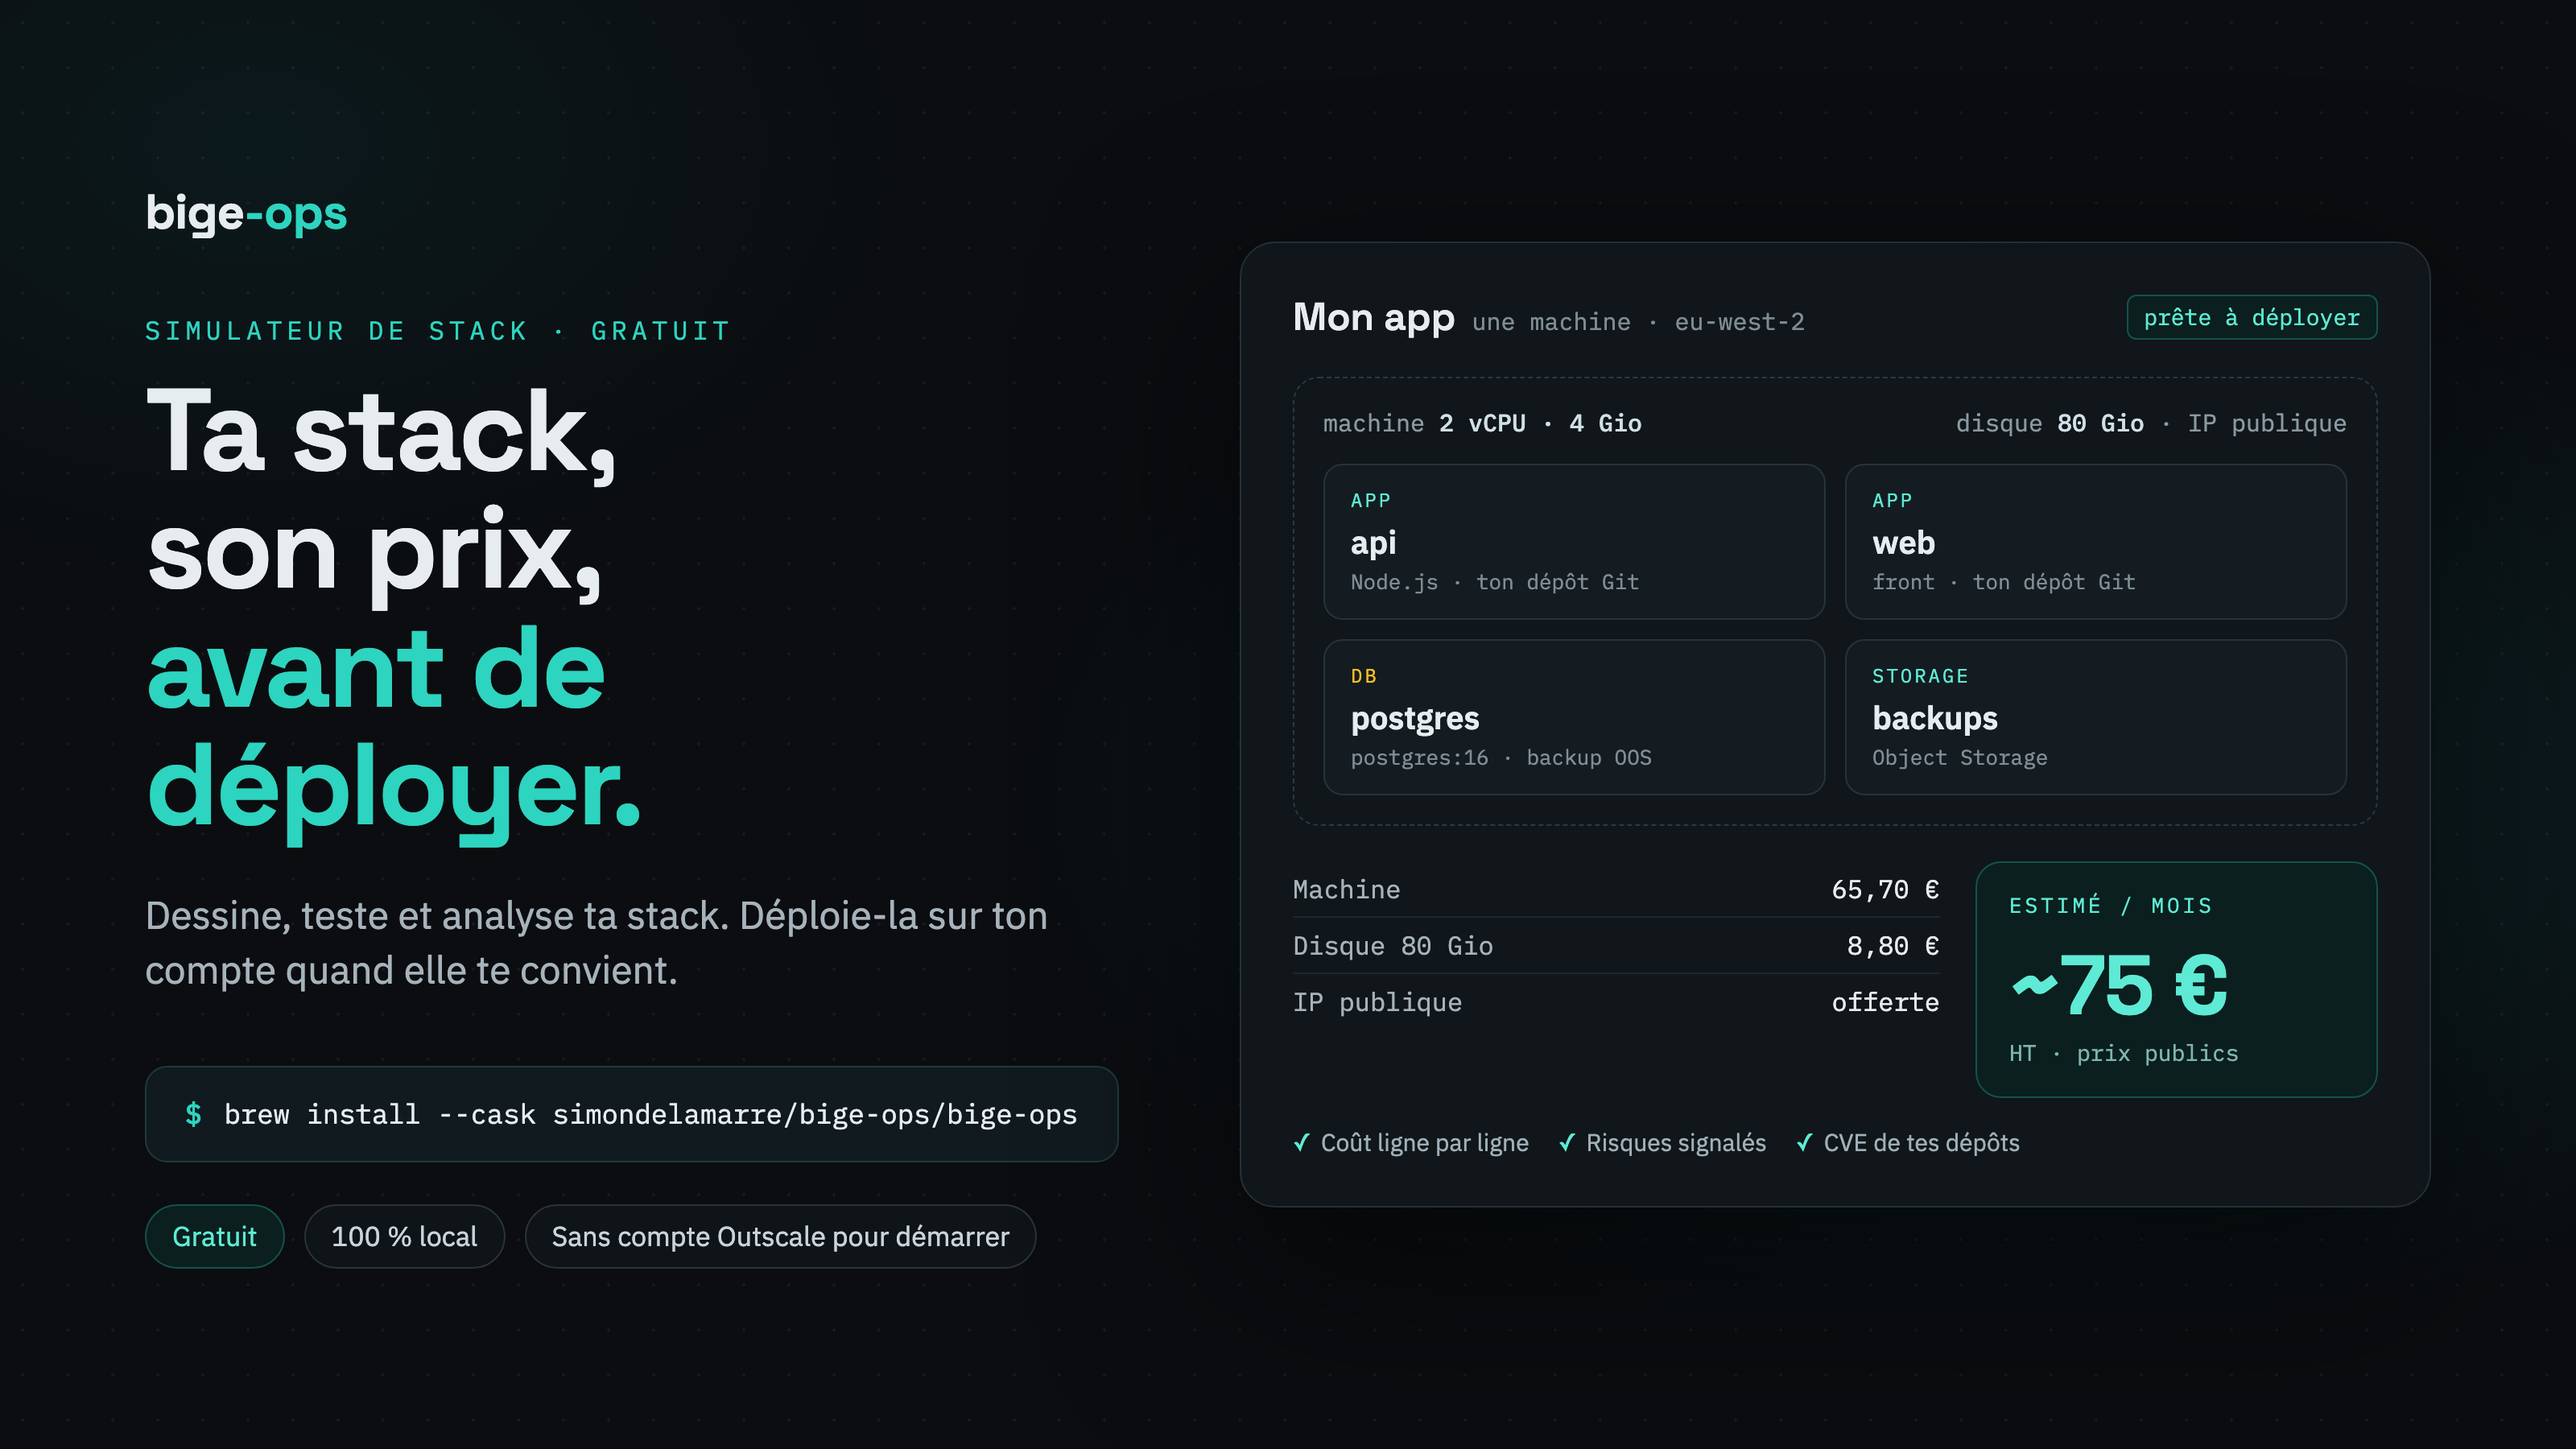
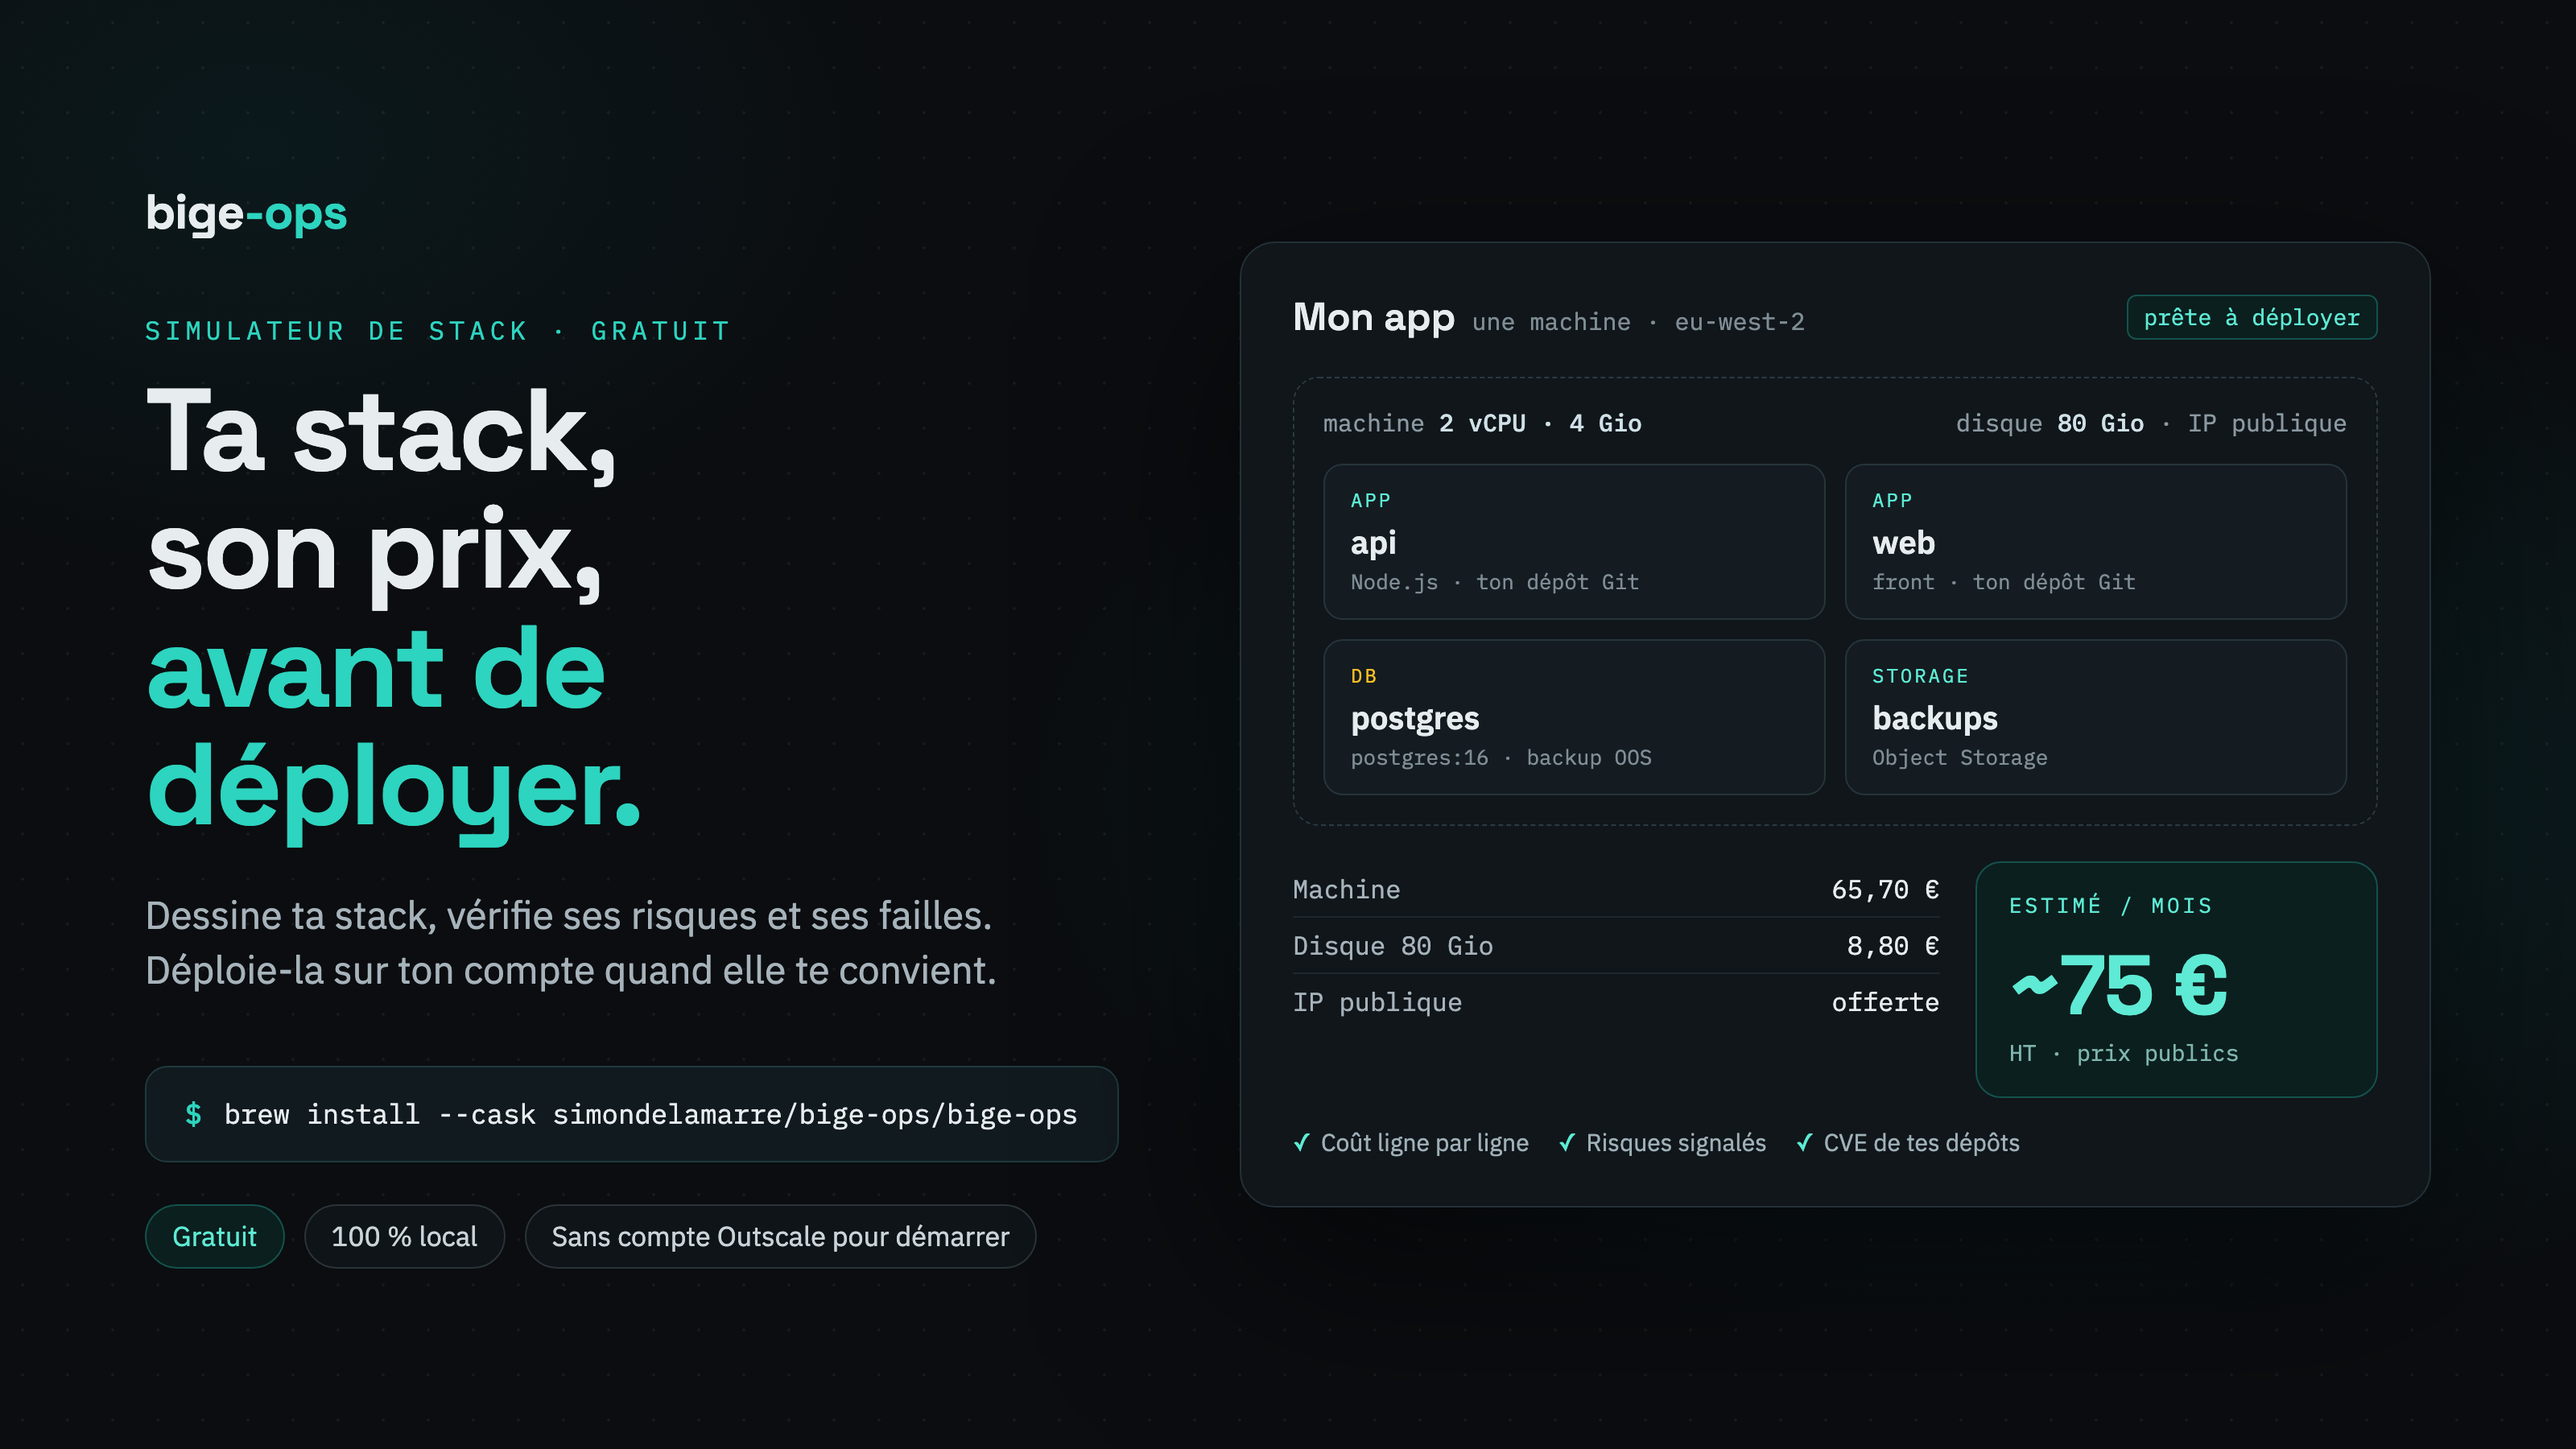
Site: plain-language vulnerabilities, verify instead of test

Changed region(s): [[0.0625, 0.6222, 0.4062, 0.6844]]

diff --git a/docs/index.html b/docs/index.html
@@ -5,7 +5,7 @@
   <meta name="viewport" content="width=device-width, initial-scale=1" />
   <meta http-equiv="Cache-Control" content="no-cache, no-store, must-revalidate" />
   <title>bige-ops — le simulateur de stack pour Outscale (gratuit, local)</title>
-  <meta name="description" content="Simulateur de stack pour Outscale, gratuit et 100 % local. Dessine ta stack, teste-la, mesure son coût, puis déploie-la sur ton compte Outscale." />
+  <meta name="description" content="Simulateur de stack pour Outscale, gratuit et 100 % local. Dessine ta stack, vérifie-la, vois son coût, puis déploie-la sur ton compte Outscale." />
   <link rel="canonical" href="https://bige.dev/" />
   <link rel="icon" href="favicon.svg" type="image/svg+xml" />
   <meta name="theme-color" content="#0b0d10" />
@@ -14,12 +14,12 @@
   <meta property="og:locale" content="fr_FR" />
   <meta property="og:url" content="https://bige.dev/" />
   <meta property="og:title" content="bige-ops — le simulateur de stack pour Outscale" />
-  <meta property="og:description" content="Gratuit · 100 % local. Simule ta stack Outscale, teste-la, mesure son coût, puis déploie-la sur ton compte." />
+  <meta property="og:description" content="Gratuit · 100 % local. Simule ta stack, vérifie-la, vois son coût, puis déploie-la sur ton compte." />
   <meta property="og:image" content="https://bige.dev/screens/hero.png" />
   <meta property="og:image:alt" content="bige-ops — Visual Outscale, topologie et coût" />
   <meta name="twitter:card" content="summary_large_image" />
   <meta name="twitter:title" content="bige-ops — le simulateur de stack pour Outscale" />
-  <meta name="twitter:description" content="Gratuit · 100 % local. Simule, teste, mesure, puis déploie sur Outscale." />
+  <meta name="twitter:description" content="Gratuit · 100 % local. Simule, vérifie, vois le prix, puis déploie." />
   <meta name="twitter:image" content="https://bige.dev/screens/hero.png" />
   <link rel="preconnect" href="https://fonts.googleapis.com" />
   <link rel="preconnect" href="https://fonts.gstatic.com" crossorigin />
@@ -676,11 +676,11 @@
         </figure>
         <figure class="slide" aria-roledescription="slide" aria-label="2 sur 5">
           <img src="screens/vulns-sqli.png" width="1440" height="900" loading="lazy" alt="Injection SQL réelle détectée dans routes/login.ts d’OWASP Juice Shop, exposée à Internet" />
-          <figcaption>Une faille réelle, trouvée sans LLM ni clé (<a href="https://owasp.org/projects/juice-shop" target="_blank" rel="noopener">OWASP Juice Shop</a>).</figcaption>
+          <figcaption>Une faille réelle, trouvée sur ton poste, sans clé ni IA (<a href="https://owasp.org/projects/juice-shop" target="_blank" rel="noopener">OWASP Juice Shop</a>).</figcaption>
         </figure>
         <figure class="slide" aria-roledescription="slide" aria-label="3 sur 5">
           <img src="screens/vulns-deps.png" width="1440" height="900" loading="lazy" alt="CVE-2022-25887 sur sanitize-html 1.4.2, avec son lien OpenCVE" />
-          <figcaption>Les CVE de tes dépendances, reliées à <a href="https://www.opencve.io/" target="_blank" rel="noopener">OpenCVE</a>.</figcaption>
+          <figcaption>Les failles connues de tes bibliothèques, reliées à <a href="https://www.opencve.io/" target="_blank" rel="noopener">OpenCVE</a>.</figcaption>
         </figure>
         <figure class="slide" aria-roledescription="slide" aria-label="4 sur 5">
           <img src="screens/visual-oks.png" width="1440" height="900" loading="lazy" alt="Le Visual : une stack Kubernetes avec ses services, ses bases et son coût" />
@@ -714,10 +714,22 @@
         </article>
         <article class="fact" id="why-vulns">
           <h3>Sécurise</h3>
-          <p>Des failles, il y en aura toujours. bige-ops les affiche et met en tête celles que ta stack expose : routes ouvertes, injections, secrets, CVE des dépendances. Sans LLM, sans clé.</p>
-          <p><a href="documentation.html">Documentation →</a></p>
+          <p>Des failles, il y en aura toujours. bige-ops les affiche et met en tête celles que ta stack expose. Sur ton poste, sans clé ni IA.</p>
+          <p><a href="#failles">Comment ça marche →</a></p>
         </article>
       </div>
+    </section>
+
+    <section class="block" id="failles">
+      <h2>Comment bige-ops trouve tes failles</h2>
+      <ol>
+        <li>Il lit le code de tes dépôts, sur ton poste.</li>
+        <li>Il repère les pages et les API que ton app expose, et vérifie qu’elles demandent une connexion.</li>
+        <li>Il cherche les erreurs classiques : mots de passe écrits en clair, requêtes à la base construites avec ce que tape l’utilisateur, API ouverte à n’importe quel site.</li>
+        <li>Il compare tes bibliothèques à la base publique des failles connues (<a href="https://osv.dev/" target="_blank" rel="noopener">OSV</a>) et, avec ta clé <a href="https://www.opencve.io/" target="_blank" rel="noopener">OpenCVE</a>, ta stack au registre mondial des failles (CVE).</li>
+        <li>Il classe tout par urgence : ce qui est exposé à Internet d’abord.</li>
+      </ol>
+      <p><strong>Pourquoi le refaire toi-même&nbsp;?</strong> C’est chez toi, et c’est gratuit.</p>
     </section>
 
     <section class="block" id="prix">
@@ -739,7 +751,7 @@
       <h2>Et aussi</h2>
       <ul>
         <li><strong>Des bases réglées pour leur usage</strong> : disque, IOPS, sauvegardes. <a href="layouts.html">Voir</a></li>
-        <li id="why-byok"><strong>L’audit profond en option</strong> : bige-ops advanced, avec ta propre clé LLM. <a href="agent.html">Voir</a></li>
+        <li id="why-byok"><strong>L’audit profond en option</strong> : bige-ops advanced lit ton code plus en profondeur avec ta propre clé d’IA, et classe chaque faille par type. <a href="agent.html">Voir</a></li>
         <li><strong>Tes secrets chez toi</strong> : coffre local, jamais dans tes fichiers. <a href="secrets.html">Voir</a></li>
         <li><strong>Bientôt</strong> : ta conso réelle face à ta simulation.</li>
       </ul>

diff --git a/docs/simulations.html b/docs/simulations.html
@@ -74,7 +74,7 @@ flowchart TB
       </li>
       <li>
         <strong>Simulation draft</strong> — une variante en parallèle. Tu
-        casses, tu testes, tu compares le coût. Elle
+        casses, tu essaies, tu compares le coût. Elle
         <strong>ne remplace rien</strong> tant que tu ne fais pas
         <code>promote</code>.
       </li>

diff --git a/README.md b/README.md
@@ -39,8 +39,8 @@
 - **Le prix avant la facture.** VMs, Kubernetes, bases, stockage : chaque ligne chiffrée sur la grille publique.
 - **La simplicité d’une plateforme, sur ton cloud.** Tu relies ton dépôt, bige-ops déploie. Pas besoin de DevOps.
 - **Des bases réglées pour leur usage.** Disque, IOPS, sauvegardes : les bons défauts, ajustables en voyant le coût.
-- **Tes failles, par ordre d’urgence.** Il y en aura toujours : bige-ops les affiche et met en tête celles que ta stack expose. Routes ouvertes, injections, secrets, CVE des dépendances. Sans LLM, sans clé.
-- **L’audit profond en option.** bige-ops advanced, avec ta propre clé LLM : failles classées par CWE, une issue GitHub par problème.
+- **Tes failles, par ordre d’urgence.** Il y en aura toujours : bige-ops les affiche et met en tête celles que ta stack expose. Pages ouvertes sans connexion, mots de passe en clair, failles connues de tes bibliothèques. Sur ton poste, sans clé ni IA.
+- **L’audit profond en option.** bige-ops advanced lit ton code plus en profondeur avec ta propre clé d’IA, classe chaque faille par type (catalogue CWE) et propose une issue GitHub par problème.
 - **La main sur tout.** Outil local, secrets chez toi, infra sur ton compte.
 
 <p align="center">
@@ -50,13 +50,23 @@
 
 <p align="center">
   <img src="docs/screens/vulns-sqli.png" alt="Injection SQL réelle détectée dans routes/login.ts d’OWASP Juice Shop, exposée à Internet" width="820" /><br/>
-  <em>Une injection SQL réelle dans <a href="https://owasp.org/projects/juice-shop">OWASP Juice Shop</a>, exposée à Internet. Vérifiable par tous.</em>
+  <em>Une faille réelle dans <a href="https://owasp.org/projects/juice-shop">OWASP Juice Shop</a> : une requête à la base construite avec ce que tape l’utilisateur (injection SQL), exposée à Internet. Vérifiable par tous.</em>
 </p>
 
 <p align="center">
   <img src="docs/screens/vulns-deps.png" alt="CVE-2022-25887 sur sanitize-html 1.4.2, avec son lien OpenCVE" width="820" /><br/>
-  <em>CVE-2022-25887 sur sanitize-html, avec son lien <a href="https://www.opencve.io/">OpenCVE</a>.</em>
+  <em>Une faille connue (CVE-2022-25887) dans la bibliothèque sanitize-html, avec son lien <a href="https://www.opencve.io/">OpenCVE</a>.</em>
 </p>
+
+## Comment bige-ops trouve tes failles
+
+1. Il lit le code de tes dépôts, sur ton poste.
+2. Il repère les pages et les API que ton app expose, et vérifie qu’elles demandent une connexion.
+3. Il cherche les erreurs classiques : mots de passe écrits en clair, requêtes à la base construites avec ce que tape l’utilisateur, API ouverte à n’importe quel site.
+4. Il compare tes bibliothèques à la base publique des failles connues ([OSV](https://osv.dev/)) et, avec ta clé [OpenCVE](https://www.opencve.io/), ta stack au registre mondial des failles (CVE).
+5. Il classe tout par urgence : ce qui est exposé à Internet d’abord.
+
+**Pourquoi le refaire toi-même ?** C’est chez toi, et c’est gratuit.
 
 ## Bientôt : ta conso réelle face à ta simulation
 
